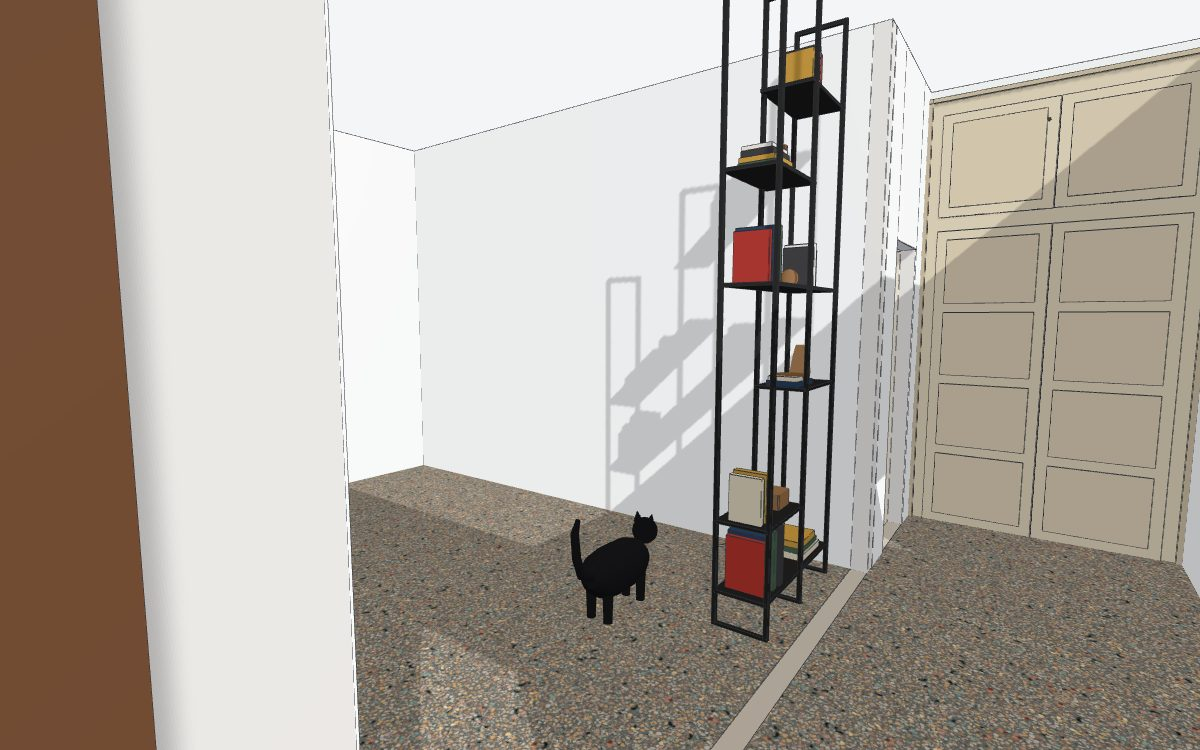
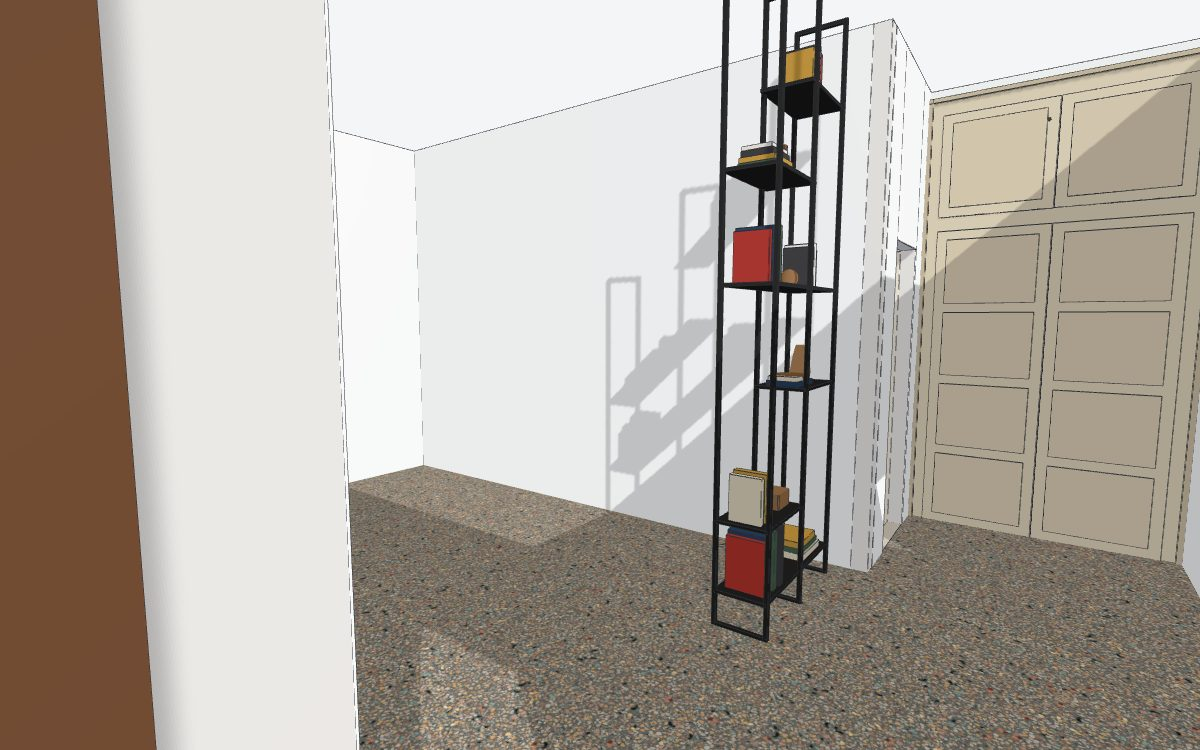
Terrazzo floor: one piece for soggiorno and ingresso, no strip between them
Claude-Session: https://claude.ai/code/session_017Czcnh6xzZxgGSwco7M1Pu

Changed region(s): [[0.5858, 0.7667, 0.74, 1.0], [0.4625, 0.6747, 0.555, 0.828]]

diff --git a/projects/casa-poggi-gabbia-cucina/house.js b/projects/casa-poggi-gabbia-cucina/house.js
@@ -55,8 +55,8 @@ box('/Casa/Pavimento_Soggiorno', C.floor, 0, YS0, -4, ROOMS.soggiorno.w, YS1 + T
 { const TZ = { tile: 40, n: 5, z: 0.3 };   // the texture holds n x n different tiles (scripts/terrazzo-texture.py)
   defGroup('pavimento-terrazzo', 'Pavimento terrazzo Rainbow Gleam (40 x 40)', 'Finiture', null, { fixed: true });
   group('pavimento-terrazzo', () => {
-    for (const [n, poly] of [['Soggiorno', [[0, YS0], [ROOMS.soggiorno.w, YS0], [ROOMS.soggiorno.w, YS1], [0, YS1]]],
-                             ['Ingresso', [[0, YI0], [XR, YI0], [XR, YI1], [0, YI1]]]]) {
+    // one piece for soggiorno + ingresso, also across the opening between them (user: no strip there)
+    for (const [n, poly] of [['Soggiorno', [[0, YI0], [XR, YI0], [XR, YI1], [ROOMS.soggiorno.w, YI1], [ROOMS.soggiorno.w, YS1], [0, YS1]]]]) {
       slab(`/Pavimento_Terrazzo/Terrazzo_${n}`, [120, 112, 104, 255], poly, 0, TZ.z);
       kit.items[kit.items.length - 1].tex = { url: 'textures/terrazzo-rainbow-gleam.png', tile: kit.inch(TZ.tile * TZ.n) };
     }

diff --git a/projects/casa-poggi-porta-scorrevole/house.js b/projects/casa-poggi-porta-scorrevole/house.js
@@ -55,8 +55,8 @@ box('/Casa/Pavimento_Soggiorno', C.floor, 0, YS0, -4, ROOMS.soggiorno.w, YS1 + T
 { const TZ = { tile: 40, n: 5, z: 0.3 };   // the texture holds n x n different tiles (scripts/terrazzo-texture.py)
   defGroup('pavimento-terrazzo', 'Pavimento terrazzo Rainbow Gleam (40 x 40)', 'Finiture', null, { fixed: true });
   group('pavimento-terrazzo', () => {
-    for (const [n, poly] of [['Soggiorno', [[0, YS0], [ROOMS.soggiorno.w, YS0], [ROOMS.soggiorno.w, YS1], [0, YS1]]],
-                             ['Ingresso', [[0, YI0], [XR, YI0], [XR, YI1], [0, YI1]]]]) {
+    // one piece for soggiorno + ingresso, also across the opening between them (user: no strip there)
+    for (const [n, poly] of [['Soggiorno', [[0, YI0], [XR, YI0], [XR, YI1], [ROOMS.soggiorno.w, YI1], [ROOMS.soggiorno.w, YS1], [0, YS1]]]]) {
       slab(`/Pavimento_Terrazzo/Terrazzo_${n}`, [120, 112, 104, 255], poly, 0, TZ.z);
       kit.items[kit.items.length - 1].tex = { url: 'textures/terrazzo-rainbow-gleam.png', tile: kit.inch(TZ.tile * TZ.n) };
     }

diff --git a/projects/casa-poggi/house.js b/projects/casa-poggi/house.js
@@ -55,8 +55,8 @@ box('/Casa/Pavimento_Soggiorno', C.floor, 0, YS0, -4, ROOMS.soggiorno.w, YS1 + T
 { const TZ = { tile: 40, n: 5, z: 0.3 };   // the texture holds n x n different tiles (scripts/terrazzo-texture.py)
   defGroup('pavimento-terrazzo', 'Pavimento terrazzo Rainbow Gleam (40 x 40)', 'Finiture', null, { fixed: true });
   group('pavimento-terrazzo', () => {
-    for (const [n, poly] of [['Soggiorno', [[0, YS0], [ROOMS.soggiorno.w, YS0], [ROOMS.soggiorno.w, YS1], [0, YS1]]],
-                             ['Ingresso', [[0, YI0], [XR, YI0], [XR, YI1], [0, YI1]]]]) {
+    // one piece for soggiorno + ingresso, also across the opening between them (user: no strip there)
+    for (const [n, poly] of [['Soggiorno', [[0, YI0], [XR, YI0], [XR, YI1], [ROOMS.soggiorno.w, YI1], [ROOMS.soggiorno.w, YS1], [0, YS1]]]]) {
       slab(`/Pavimento_Terrazzo/Terrazzo_${n}`, [120, 112, 104, 255], poly, 0, TZ.z);
       kit.items[kit.items.length - 1].tex = { url: 'textures/terrazzo-rainbow-gleam.png', tile: kit.inch(TZ.tile * TZ.n) };
     }
